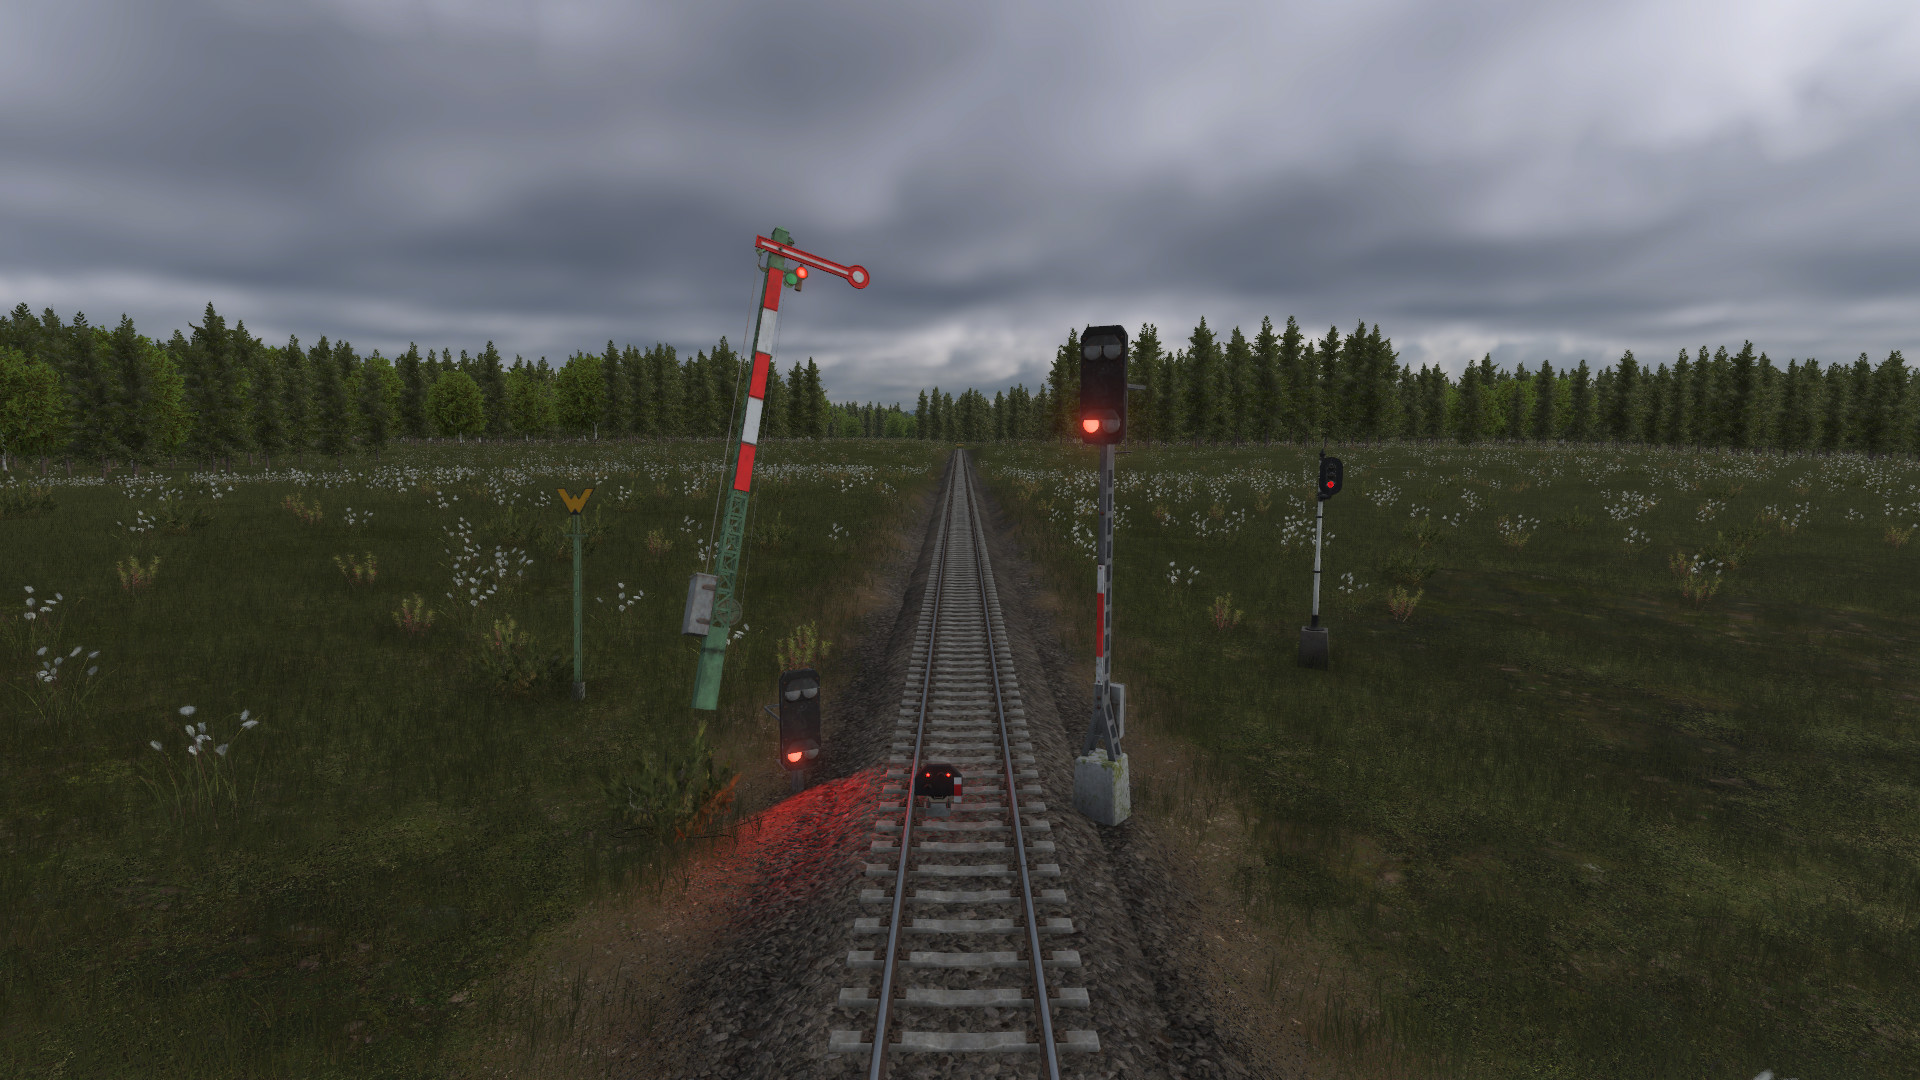
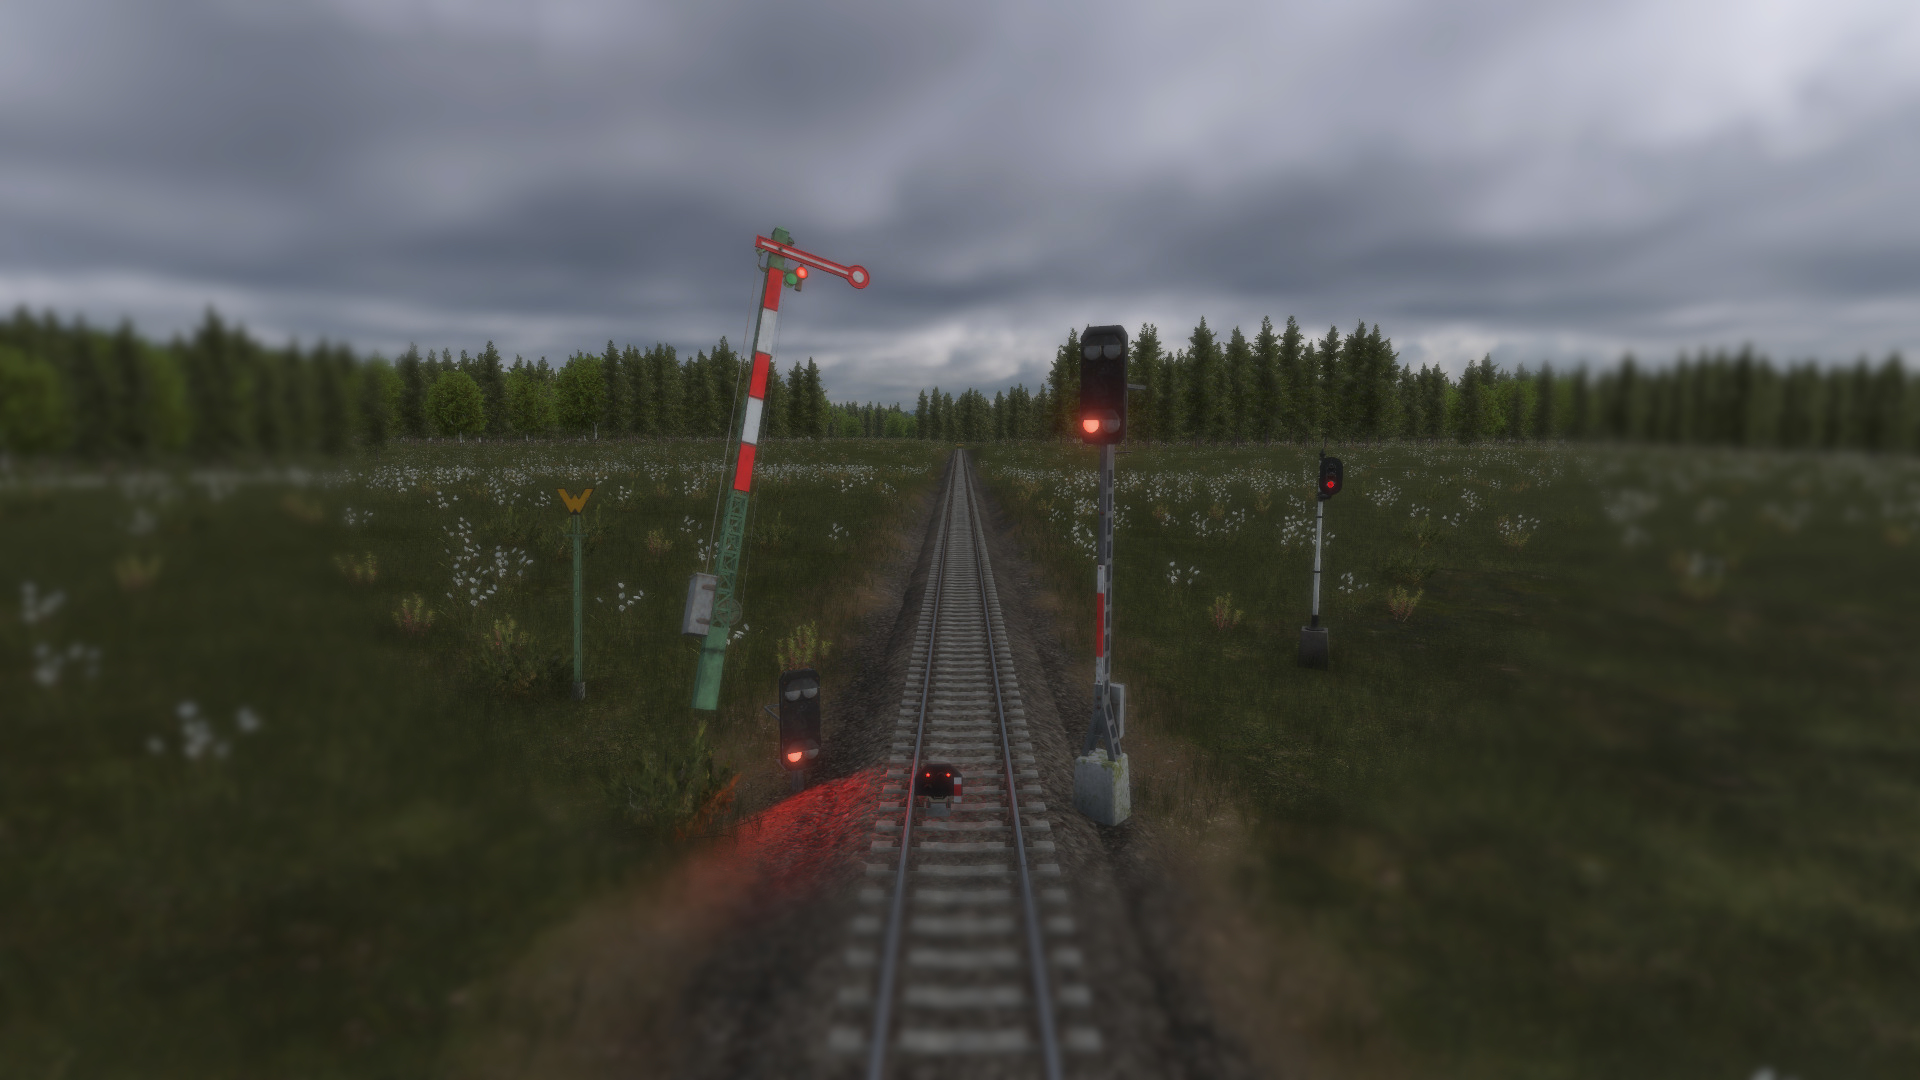
Whistles

diff --git a/README.md b/README.md
@@ -9,10 +9,13 @@ Adds reusable construction parameters to Transport Fever 3 railway signals:
 - −7.5–7.5 m of vertical adjustment in 0.25 m steps when enabled;
 - −30–30° of yaw adjustment in 1° steps when enabled;
 - −15–15° of pitch and roll adjustment in 1° steps when enabled;
-- default, signal, or waypoint function; and
+- default, signal, or waypoint function;
+- Default, Off, or On whistle behaviour for passing trains; and
 - the game's standard one-way option for signals.
 
-The default values preserve each signal's original appearance and behaviour. Existing side, track offset, height offset, yaw, pitch, roll, waypoint, and one-way controls from other mods are retained rather than duplicated. Advanced adjustments are disabled by default; enable them in this mod's settings before creating or loading a game to add and apply the four extra controls.
+The default values preserve each signal's original appearance and behaviour. Existing side, track offset, height offset, yaw, pitch, roll, waypoint, whistle, and one-way controls from other mods are retained rather than duplicated. Advanced adjustments are disabled by default; enable them in this mod's settings before creating or loading a game to add and apply the four extra controls.
+
+Whistle is independent of the selected function, so both signals and waypoints can trigger it. On uses the game's `horn` sound event, Off clears an authored sound event, and Default leaves the original value unchanged.
 
 The construction controls and mod-browser metadata are localised for all 22 supported locales. The English text is used as the game's fallback if a locale is unavailable.
 
